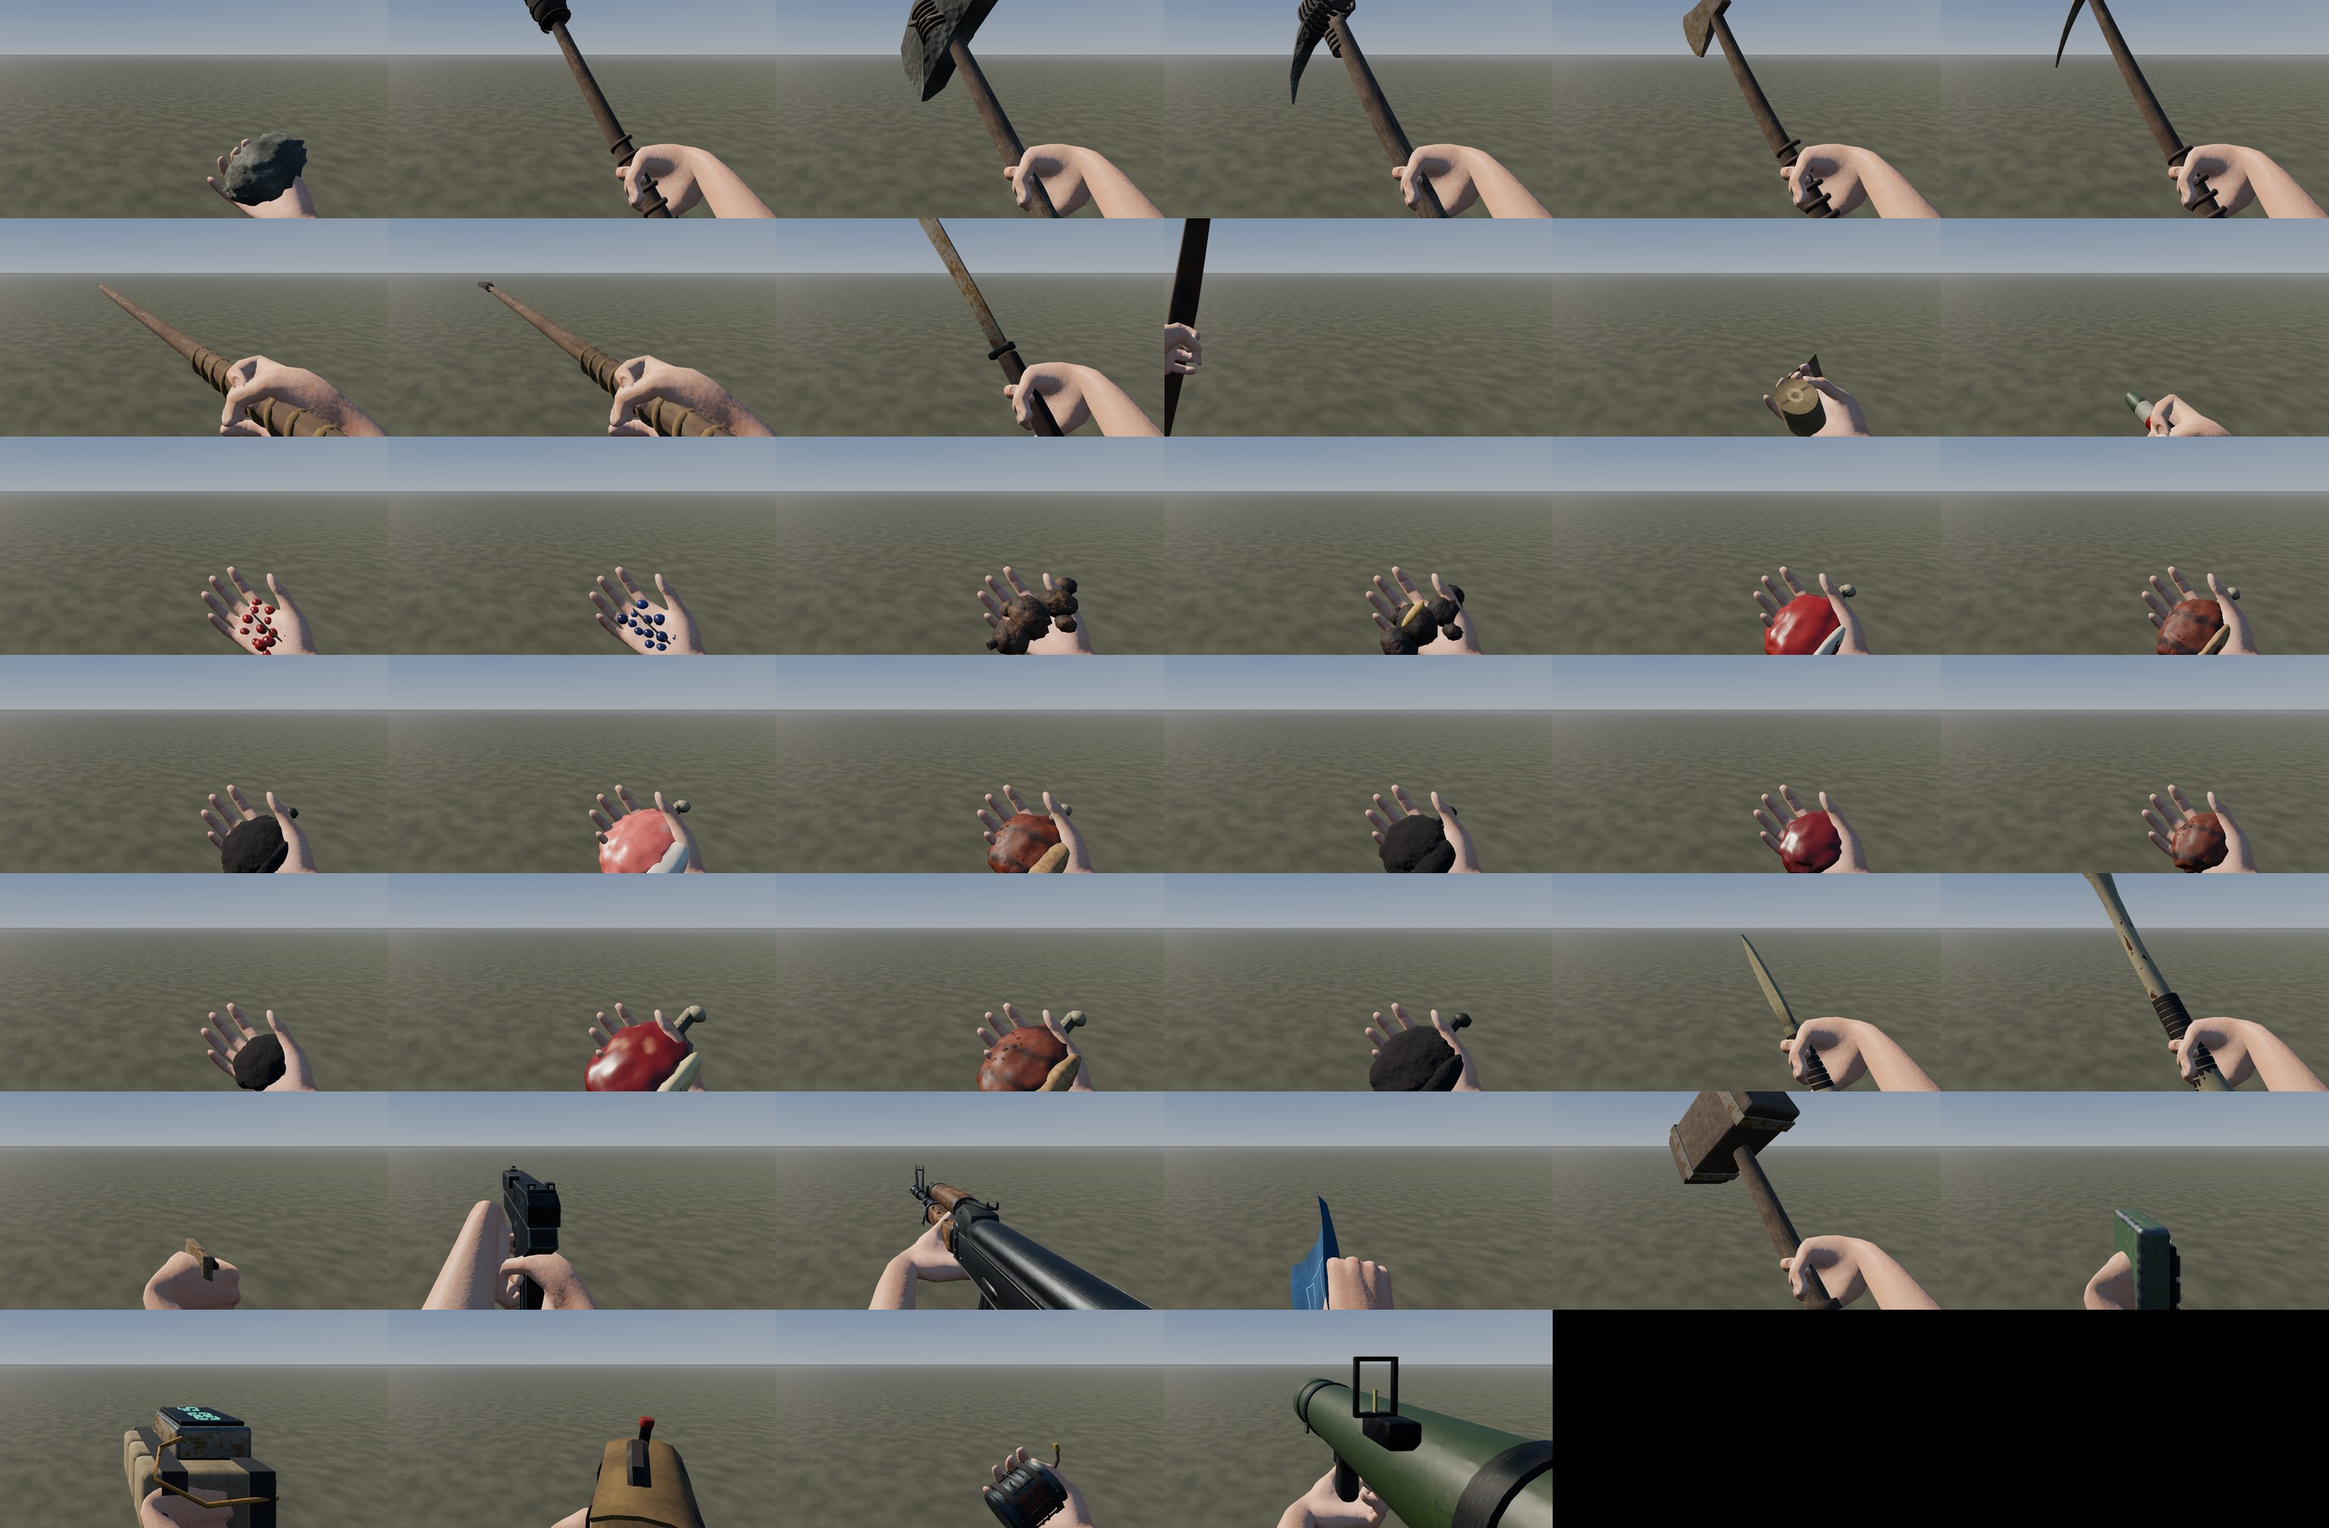
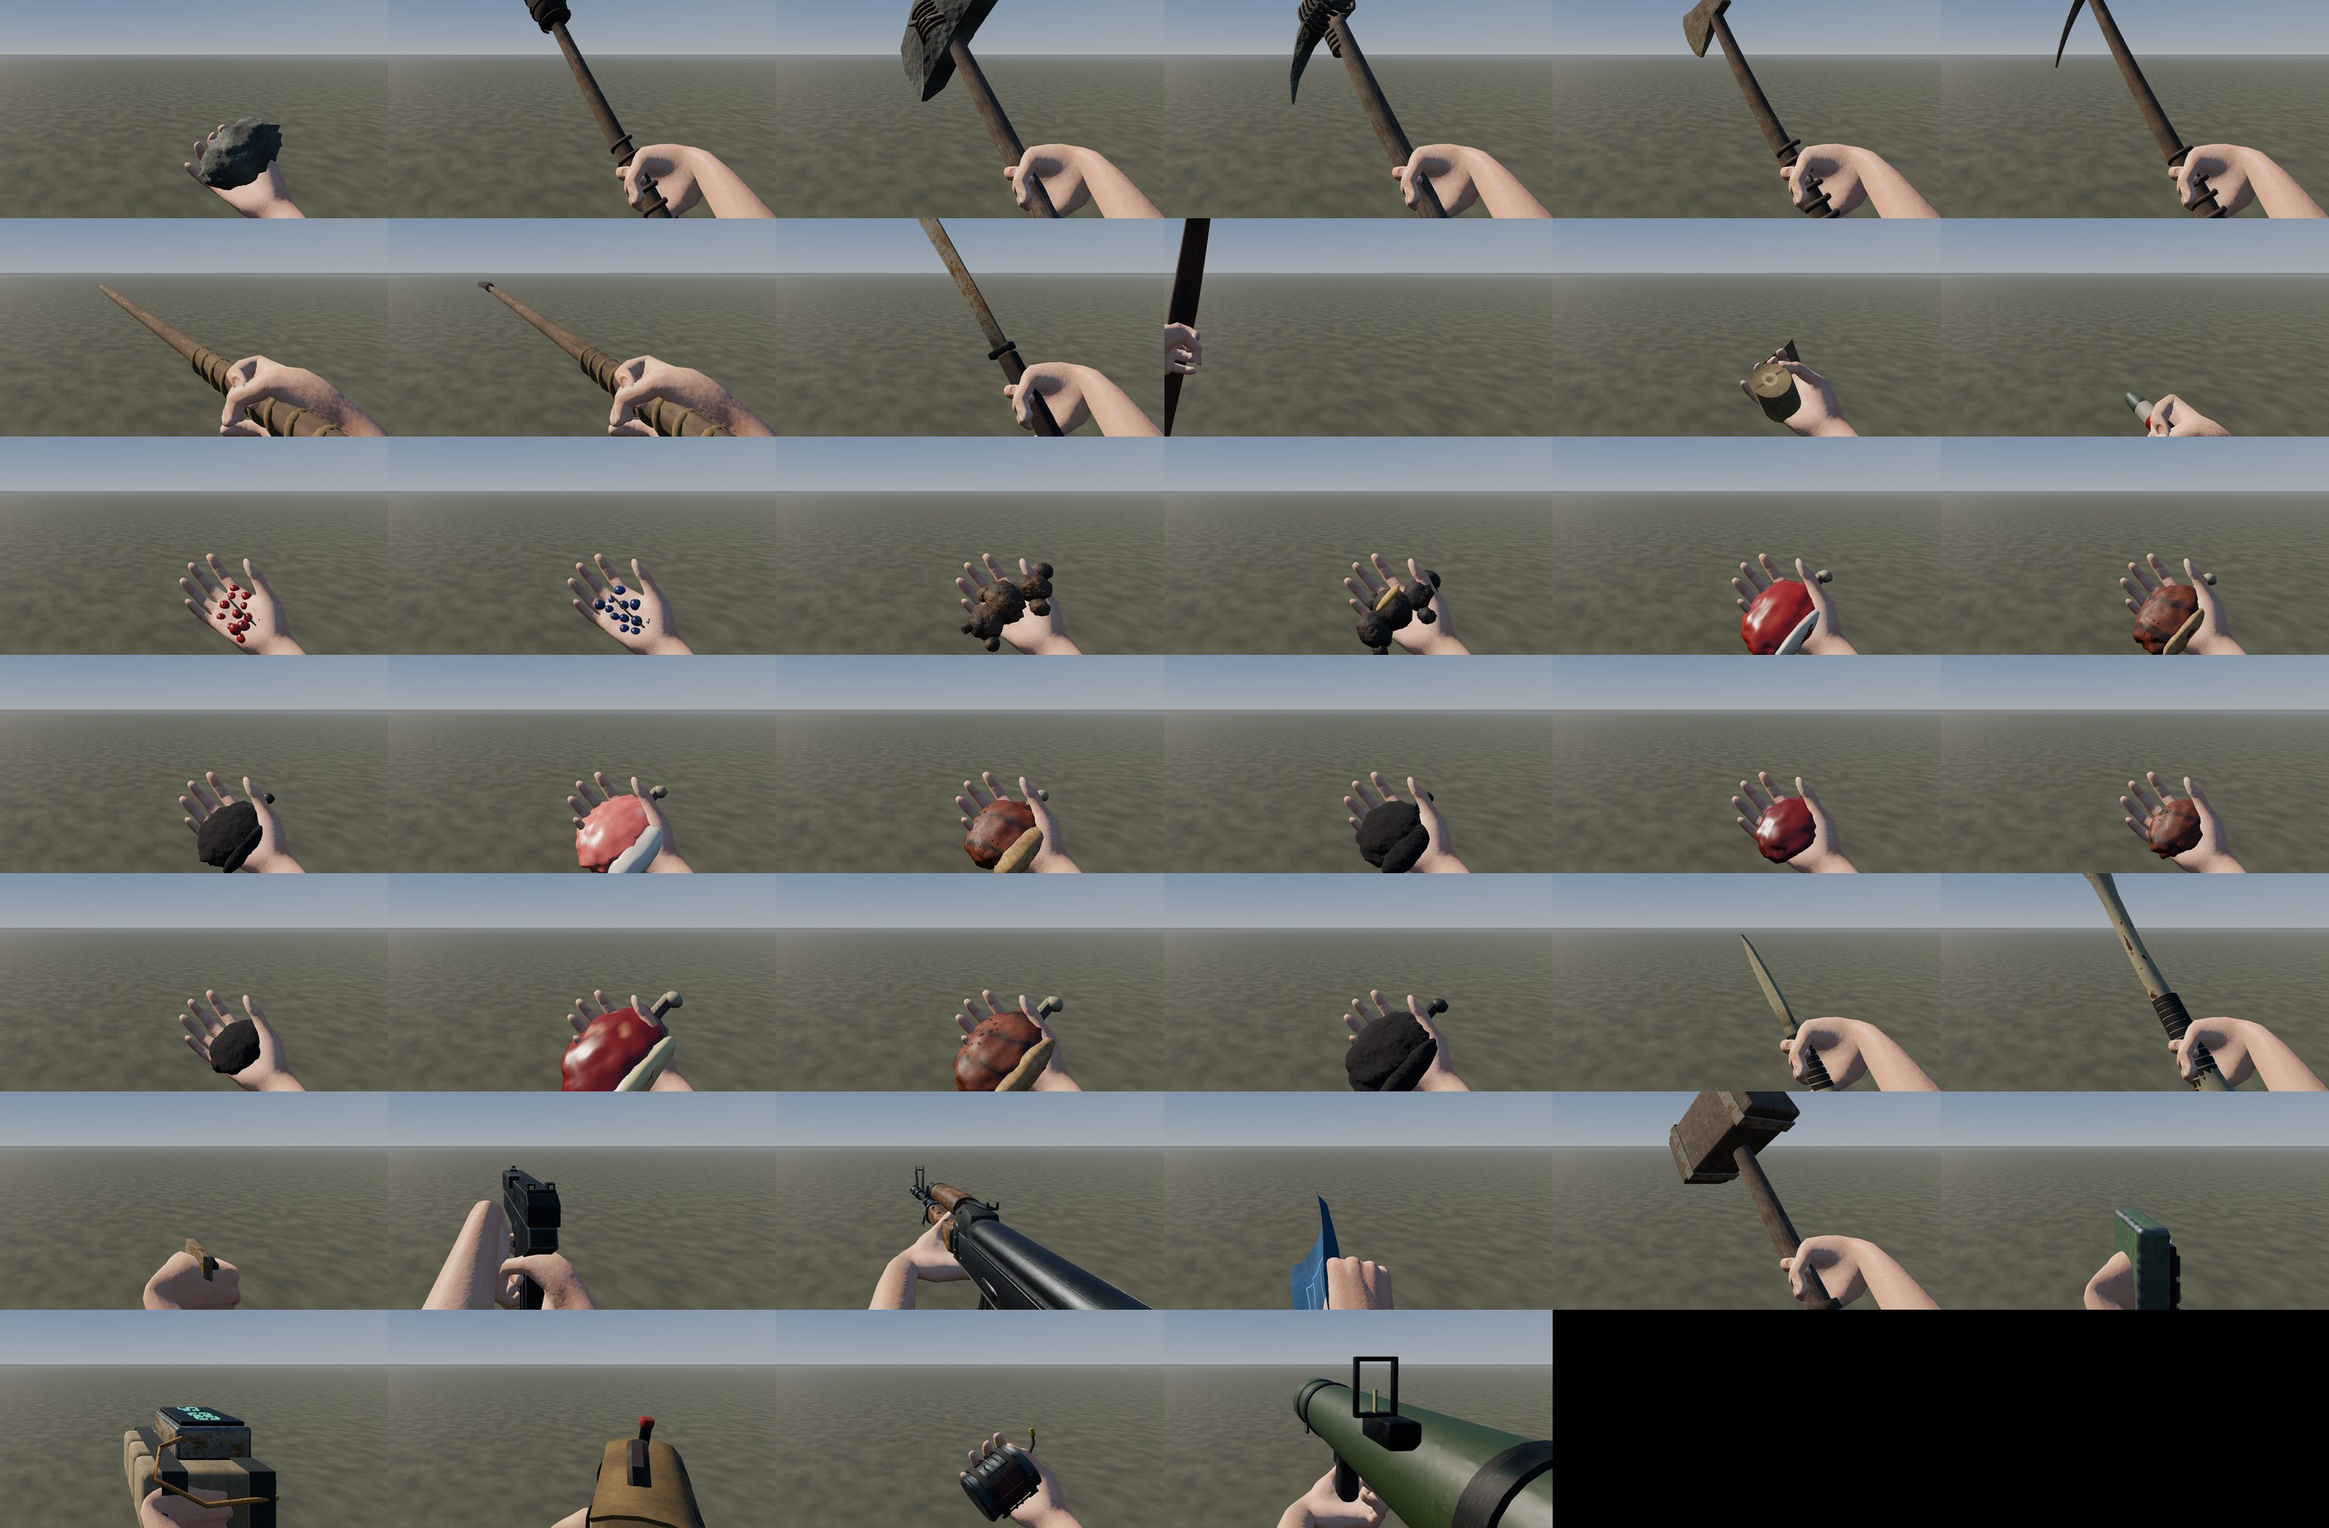
Pictures and a tour step for free look, the rock and lifted foundations
The tour's new look step pictures, in the hosted game, the rock in hand, free look
through Alt and the mouse (the arms keep to the view) and a free foundation lifted by a
raised aim; the build sandbox's empty scene takes --from and --at, for the lifted ghost.
The cradled items sit 4 cm further in and 2.5 cm higher, clear of the vitals.
GROUND.md 4.8, 6.3 and L3 (the snapshot cost), AGENTS.md, progress log.

diff --git a/game/scripts/Ground/GroundTour.cs b/game/scripts/Ground/GroundTour.cs
@@ -62,7 +62,7 @@ public partial class GroundTour : Node
         {
             ("hud", Hud), ("berries", Berries), ("inventory", Inventory), ("crafting", Crafting), ("player", OtherPlayer),
             ("chop", Chop), ("mine", Mine), ("gun", Gun), ("build", Build), ("base", Base), ("charge", Charge), ("firefight", Firefight), ("ship", Ship),
-            ("world", World), ("death", Death), ("night", Night), ("f1", F1),
+            ("world", World), ("death", Death), ("night", Night), ("f1", F1), ("look", Look),
         };
         _steps.Enqueue(Prepare);
         foreach ((string name, Func<Task> step) in all)
@@ -383,6 +383,39 @@ public partial class GroundTour : Node
         View.Scripted = null;
         await Seconds(0.6);
         Me.HeldSlot = 2;
+    }
+
+    // ---------------------------------------------------------------- the owner's first playtest: looking and holding
+
+    // The rock held in the right hand; free look (Alt held, the mouse to the right) turning the camera while the arms
+    // keep to the view; and a free foundation lifted by a raised aim (GROUND.md §4.5, §4.8, §6.3).
+    private async Task Look()
+    {
+        Admin("give", "building-plan 1");
+        Admin("give", "wood 600");
+        await Until(() => Count("building-plan") > 0, 5);
+        (Num.Vector3 spot, Num.Vector3 towards) = OpenSpot(new Num.Vector3(-40, 0, 30));
+        await TeleportTo(spot);
+        View.Yaw = MathF.Atan2(-towards.X, -towards.Z);
+        View.Pitch = -0.12f;
+        await Settle();
+        await Hold("rock", 0);
+        await Seconds(0.6);
+        await Shot("rock");
+        Input.MouseMode = Input.MouseModeEnum.Captured;
+        Input.ParseInputEvent(new InputEventKey { Keycode = Key.Alt, PhysicalKeycode = Key.Alt, Pressed = true });
+        await Seconds(0.2);
+        Input.ParseInputEvent(new InputEventMouseMotion { Relative = new Vector2(420, -60) });
+        await Seconds(0.3);
+        await Shot("freelook");
+        Input.ParseInputEvent(new InputEventKey { Keycode = Key.Alt, PhysicalKeycode = Key.Alt, Pressed = false });
+        await Seconds(0.3);
+        await Hold("building-plan", 5);
+        View.Building.PlanPiece = Client.Content.Building.Wheel.ToList().FindIndex(p => p.Key == "foundation");
+        // The aim 3.5 m out half a metre over the ground: the foundation's top stands that high.
+        View.Pitch = -MathF.Atan2(Client.EyeHeight - 0.5f, 3.5f);
+        await Seconds(0.8);
+        await Shot("foundation-lifted");
     }
 
     // ---------------------------------------------------------------- building and raiding (G3, G5)

diff --git a/game/scripts/Build/BuildSandbox.cs b/game/scripts/Build/BuildSandbox.cs
@@ -196,7 +196,7 @@ public partial class BuildSandbox : Node3D
         _scene = Options.TryGetValue("scene", out string? s) ? s : "house";
         PlacementPlan? first = _world.FoundationAt(_data.Piece("foundation")!, site, 0.35);
         Num.Vector3 spawn = site + new Num.Vector3(2, 0.5f, 12);
-        if (first == null || _scene == "empty")
+        if (first == null)
         {
             AddPlayer(site + new Num.Vector3(0, 0.5f, 6));
             return;
@@ -204,6 +204,10 @@ public partial class BuildSandbox : Node3D
         BuildingFrame frame = first.Frame;
         switch (_scene)
         {
+            case "empty":
+                // Nothing built: the first foundation's frame only measures --from and --at (a free foundation's ghost).
+                spawn = site + new Num.Vector3(0, 0.5f, 6);
+                break;
             case "stress":
             {
                 int count = DemoBases.Block(_world, first);

diff --git a/docs/GROUND.md b/docs/GROUND.md
@@ -676,7 +676,9 @@ is thrust along its shaft. Eating brings the food to the mouth for a few bites; 
 view and winds the bandage round it; injecting pushes the injector into the raised forearm. Gloves are drawn with the
 forearms. Unarmed shows no arms, as in Rust. The arms belong to the body: while the player free looks (Alt, §4.5) they
 stay on the view, where everything is aimed, and leave the picture as the head turns away (`FirstPersonView.ArmsTurn`,
-L2).
+L2). Pictures in `images/ground/look/`: the rock before and after (`fp-rock-before.png`, `fp-rock-after.png`, and in the
+game `game-rock.jpg`), every held item (`fp-held-items.jpg`), free look in the game (`game-freelook.jpg`) and a head
+turned as others see it (`head-turned.png`, `--look 75,-15`).
 
 **Death.** `PhysicalBoneSimulator3D` with fourteen capsules (pelvis, two spine, head, upper and lower arms, thighs,
 calves, feet), cones at the spine, shoulders and hips, hinges at the elbows and knees. Built on first use. Ragdolls
@@ -1868,6 +1870,7 @@ neither level). Measured on the owner's PC at 1600 × 900, vsync off, shadows an
 |---|---|
 | A two-storey house in mixed grades: stone foundations and doorway with a sheet-metal door, metal and wood walls, windows, an open wooden double door, wood floors, U stairs, metal roofs with gables, a twig porch | `images/ground/build/house.jpg` |
 | The plan's ghost, allowed (a foundation beside the house) and refused (a sixth floor off a balcony: "Not stable enough (0%)") | `ghost-valid.jpg`, `ghost-invalid.jpg` |
+| A free foundation lifted by a raised aim (L1): the aim half a metre over the ground 3.5 m out, the top 0.6 m up (`--scene empty --tool 1 --piece foundation --from 0,1.8,6 --at 0,0.48,2.5`; in the game, `images/ground/look/game-foundation-lifted.jpg`) | `foundation-lifted.png` |
 | The stability overlay: the house 100 %, the balcony 90, 70, 50, 30, 10 % | `stability.jpg` |
 | The 1,060-piece block with its frame time | `stress.jpg` |
 | The plan's wheel with the rules' pieces and costs | `wheel.jpg` |
@@ -4373,8 +4376,9 @@ without the owner, to confirm or overturn (numbered L1 on):
   somewhere it won't fire.
 - L3. **Free look rides the existing view state**, not a message of its own: two signed bytes (1.5° steps) beside the
   view in every input (sent with the three repeats, about 8 bytes a packet) and beside the view angles in characters'
-  snapshot state (two bits when nobody looks round). RustMVP's rate limits aren't needed: inputs come once a tick. Its
-  0.8 s of silence is counted in repeated inputs: after 24 ticks without one the server's copy lets go.
+  snapshot state (two bits when nobody looks round; a character sent in full is 16 bits larger, so 300 coming into
+  view at once take 17 snapshots of 600 bytes instead of 16). RustMVP's rate limits aren't needed: inputs come once a
+  tick. Its 0.8 s of silence is counted in repeated inputs: after 24 ticks without one the server's copy lets go.
 - L4. **While Alt is held the hands do nothing at all**: no attack, aiming down the sights or drawing the bow, placing,
   using, throwing, reloading or turning a piece (RustMVP blocked the weapon and the R and left-button actions). E still
   acts on what the view is on, as in RustMVP. The decision lives in one place, `GroundView.Hands`, which reads the item's

diff --git a/docs/progress-ground.md b/docs/progress-ground.md
@@ -336,3 +336,25 @@ Branch `ground`, in worktree `D:\GameDev\Projects\Hollow-wt\ground`. The plan an
   Pictures: `docs/images/ground/play/f1-console.jpg`, `f1-info.jpg`, `f1-net.jpg`, `f1-items.jpg`, `f1-tools.jpg`.
   Protocol 11; the console's tests (parsing, completion, a non-admin refused, give, teleport, spawn, kill and time over
   the network, god and noclip against the prediction) pass with the rest.
+
+## 13 October 2026, the playtest's looking, hands and foundations
+
+- **Free look** (`ground-look`, GROUND.md §4.5, L2–L6): hold Left Alt and the mouse turns the camera and the head, up
+  to 120° either side and within ±85° of level, while the view, the walk and the aim stay put; letting go, or any screen
+  that shows the cursor, turns the camera back at once. The hands do nothing while it lasts (no shots, swings,
+  placing, throwing, reloading or turning a piece): one place now decides what the item in hand does (`GroundView.Hands`,
+  from the item's data, `ItemDef.Hands`). The arms stay with the body, so they slide out of the picture as the head
+  turns. Others see the head turn and ease back (two bytes on every input and on a character's state; the server bounds
+  them and lets go after 0.8 s without input). In the Tin Finch's cockpit Alt turns the pilot's head. Protocol 12.
+- **The rock in hand** (§4.8, L7–L10): it was held like a hatchet handle, the fist closed inside the rock and the palm a
+  pale blob behind it. It now lies in the right hand at the lower right, the fingers round its far side, and swings from
+  the wrist. How a hand holds an item became data (`held.grip` in models.json); the bandage and the grenade are held the
+  same way and food lies on the open palm. A contact sheet of all 40 held items showed food, locks, the plan, charges and
+  spears sitting below the bottom of the picture (their poses were set for a wider view): all are in view now.
+  Pictures: `docs/images/ground/look/fp-rock-before.png`, `fp-rock-after.png`, `game-rock.jpg`, `fp-held-items.jpg`.
+- **Free foundations rise with the aim** (§6.3, L1), as RustMVP's did: within 3.5 m the foundation sits where the aim
+  meets the ground; aimed further, the aim's height 3.5 m out lifts its top, up to its depth over the lowest ground
+  under it, always valid where the slope leaves room. The ghost and the server work it out from the same point.
+  Pictures: `docs/images/ground/build/foundation-lifted.png`, `docs/images/ground/look/game-foundation-lifted.jpg`.
+- Checked once each: the sandbox's build check (9 of 9), the hosted game's new `look` tour step (rock, free look
+  through Alt and the mouse, a lifted foundation) and the character viewer (a head turned, every held item).

diff --git a/AGENTS.md b/AGENTS.md
@@ -205,9 +205,10 @@ Client options (after `--`):
   seen), `--db <path>` (the hosted server's database; the default is `user://hollow-host.db`), `--spawn origin` (hosted:
   arrive at the landing site rather than on a beach), `--time <UTC>` or `--hour <h>` (show another time of day: a
   universe time, or the next time it is h o'clock at the landing site; this client's sky only), `--tour <folder>`
-  with `--tour-steps hud,berries,inventory,crafting,player,chop,mine,gun,build,base,charge,firefight,ship,world,death,night,f1`
+  with `--tour-steps hud,berries,inventory,crafting,player,chop,mine,gun,build,base,charge,firefight,ship,world,death,night,f1,look`
   (the screenshot run; `--tour guest` is its second player, which also joins the firefight, watches the ship and takes
-  the team invite; `f1` checks the F1 console in the game, as the host and admin, and pictures its five tabs),
+  the team invite; `f1` checks the F1 console in the game, as the host and admin, and pictures its five tabs; `look`
+  pictures the rock in hand, free look through Alt and the mouse, and a free foundation lifted by the aim),
   `--measure <s> [--expect <n>]` (once n others are in view, turns to them, measures the frame
   time for s seconds with vsync off, prints it with the slowest frames and what they did, and, when hosting, the
   server's tick; then quits). Keys, as in Rust: W A S D, Shift sprint, Ctrl crouch, Space jump, mouse look (Left Alt held:
@@ -254,7 +255,8 @@ Client options (after `--`):
 - Build sandbox (GROUND.md §6.3): `--view build`, local, on the first world's stand-in surface. `--scene
   house|ghost-valid|ghost-invalid|stability|stress|empty` (a built base; `stress` measures 300 frames and prints the
   frame time), `--overlay` (stability colours), `--tool 1–6` (plan, hammer, three doors, claim device), `--piece <key>`,
-  `--wheel plan|hammer` (open the wheel), `--from x,y,z --at x,y,z` (the camera in the scene's frame), `--finest` or
+  `--wheel plan|hammer` (open the wheel), `--from x,y,z --at x,y,z` (the camera in the scene's frame, the empty scene's
+  too: its first foundation's frame, unbuilt; the plan's aim is the camera's), `--finest` or
   `--lod n` (draw one level of detail). Keys: right mouse wheels, left places or repairs, R turns, E doors, F2 the
   stability overlay, F5 an hour of upkeep and decay. `--view build --scene empty --build-check` plays a round of
   building through the sandbox's input (place, snap, upgrade, turn, door, demolish and collapse) and quits with exit
